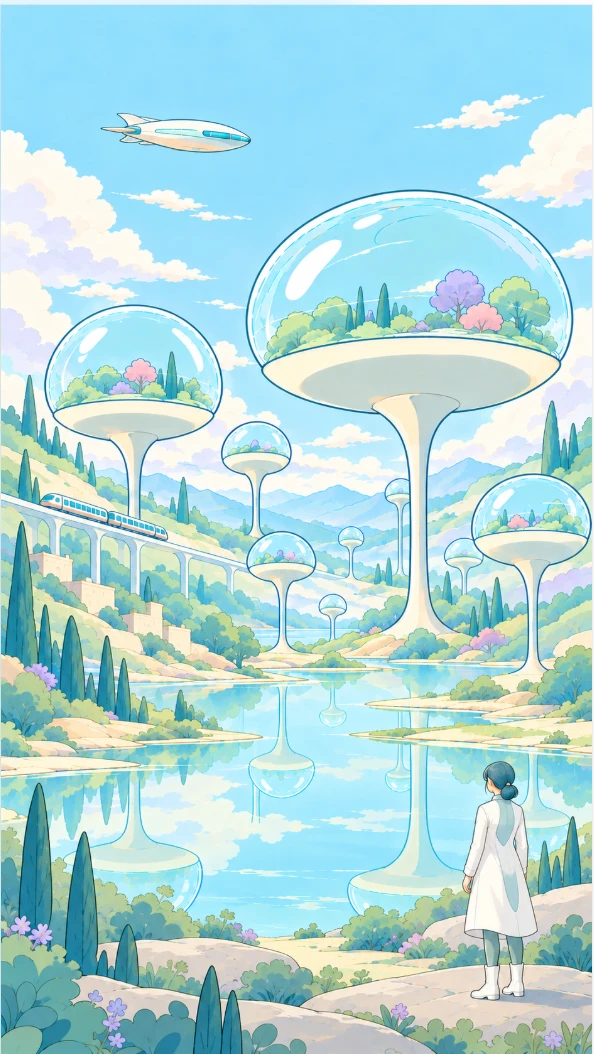
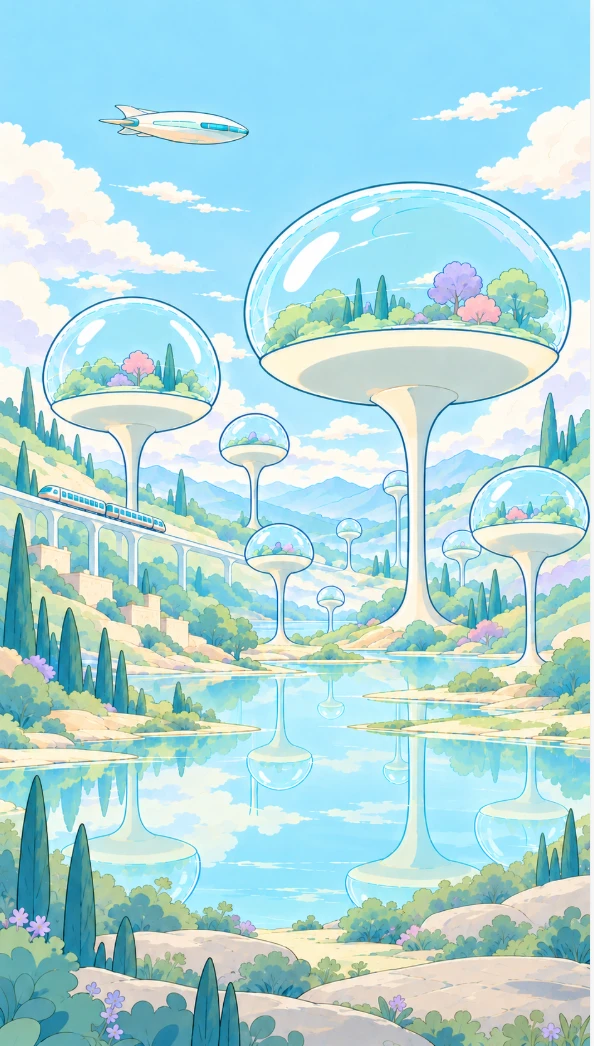
Phone hero picture: version without the figure

diff --git a/site/index.html b/site/index.html
@@ -34,7 +34,7 @@
 </header>
 <main id="main">
 <section class="hero">
-<div class="hero-bg"><picture><source media="(max-width: 820px)" srcset="images/hero_top_sp.webp?v=2" width="592" height="1050"><img src="images/hero_top.webp?v=165" alt="" width="2000" height="862" fetchpriority="high"></picture></div>
+<div class="hero-bg"><picture><source media="(max-width: 820px)" srcset="images/hero_top_sp.webp?v=3" width="592" height="1050"><img src="images/hero_top.webp?v=166" alt="" width="2000" height="862" fetchpriority="high"></picture></div>
 <div class="hero-intro" aria-hidden="true"><div class="hi-veil"></div><div class="hi-logo" data-capsule-intro><svg class="capsule-svg" overflow="visible" xmlns="http://www.w3.org/2000/svg" aria-label="CELLACT ロゴ" viewBox="118 55 1018 1010" role="img"><g id="head" fill="#6A6562" opacity="0"><path fill-rule="evenodd" d="M614.500 299.404C593.595 302.815 574.148 310.279 558.917 325.500C547.951 336.459 539.573 351.218 536.577 366.500C531.408 392.855 541.235 422.026 561.500 439.696C583.686 459.041 615.500 467.342 644.500 461.799C653.610 460.058 661.987 456.874 670.500 453.363C681.140 448.974 692.080 440.503 699.209 431.500C700.604 429.738 702.095 427.979 703.500 426.235C703.963 425.661 705.362 424.373 705.143 423.500C704.989 422.886 702.997 422.074 702.500 421.816C700.784 420.922 699.188 419.739 697.500 418.790C691.801 415.586 686.405 411.592 680.500 408.641C678.773 407.778 676.547 405.323 674.500 405.323C673.904 405.323 673.515 406.125 673.212 406.500C671.794 408.255 670.286 409.958 668.620 411.500C662.950 417.406 655.379 423.301 647.500 425.803C639.167 428.449 630.270 429.788 621.500 428.925C604.023 427.207 587.204 416.659 579.669 400.500C577.201 395.209 575.571 389.411 575.145 383.500C574.573 375.574 576.545 367.824 579.279 360.500C581.065 355.716 585.164 351.185 588.595 347.500C601.299 333.855 621.481 329.236 639.500 332.353C644.290 333.182 649.040 335.465 653.500 337.346C659.000 339.666 665.025 344.887 668.782 349.500C670.109 351.130 671.132 353.212 672.500 354.730C672.995 355.279 673.601 356.539 674.500 356.539C676.203 356.539 678.995 354.021 680.500 353.149C686.572 349.636 692.299 345.309 698.500 342.091C700.237 341.190 701.832 340.067 703.500 339.037C703.998 338.729 704.924 338.290 704.924 337.500C704.924 336.254 702.265 333.752 701.500 332.791C697.797 328.141 693.602 322.764 688.500 319.626C687.427 318.966 686.544 317.754 685.500 316.996C681.149 313.837 676.480 310.553 671.500 308.465C666.204 306.244 661.013 303.824 655.500 302.329C642.185 298.719 628.195 297.941 614.500 299.404Z" /></g><g id="plus" fill="#6A6562" opacity="0"><path fill-rule="evenodd" d="M606.500 480.461C605.179 481.799 606.020 486.700 605.988 488.500C605.886 494.163 606.003 499.836 605.979 505.500C605.969 507.863 606.637 511.304 605.726 513.500C605.436 514.200 603.985 513.661 603.500 513.657C601.517 513.640 599.496 513.684 597.500 513.698C590.832 513.746 584.167 513.687 577.500 513.736C575.728 513.748 572.080 512.980 570.500 513.679C568.798 514.432 569.682 519.915 569.683 521.500C569.689 528.166 569.630 534.834 569.655 541.500C569.662 543.578 568.971 546.856 570.288 548.500C570.606 548.896 572.067 548.665 572.500 548.657C574.835 548.614 577.161 548.647 579.500 548.621C585.832 548.550 592.168 548.520 598.500 548.560C600.218 548.571 603.996 548.027 605.500 548.814C606.100 549.128 605.982 550.019 605.985 550.500C605.995 552.499 606.027 554.500 606.039 556.500C606.073 562.167 605.996 567.833 605.996 573.500C605.996 575.774 605.343 579.401 606.199 581.500C606.478 582.186 607.984 582.004 608.500 582.003C610.833 581.998 613.167 582.045 615.500 582.016C622.837 581.927 630.164 582.014 637.500 581.984C639.532 581.975 644.366 582.825 645.920 581.500C647.156 573.465 645.955 564.639 646.029 556.500C646.048 554.505 646.138 552.492 646.099 550.500C646.087 549.882 645.727 549.180 646.500 548.761C646.654 548.678 648.342 548.684 648.500 548.683C650.501 548.664 652.499 548.559 654.500 548.543C661.165 548.489 667.836 548.628 674.500 548.586C676.230 548.576 682.456 549.632 683.040 547.500C683.658 545.242 683.028 541.863 683.039 539.500C683.067 533.500 683.029 527.500 683.039 521.500C683.041 519.828 683.030 518.163 683.002 516.500C682.989 515.756 683.417 514.387 682.500 513.937C681.718 513.554 680.345 513.794 679.500 513.771C677.167 513.708 674.833 513.797 672.500 513.788C667.167 513.767 661.833 513.750 656.500 513.774C653.249 513.789 649.715 514.145 646.500 513.689C646.081 513.630 646.103 512.920 646.052 512.500C645.822 510.600 646.077 508.426 646.084 506.500C646.111 499.843 646.307 493.154 646.127 486.500C646.097 485.399 646.668 481.124 645.500 480.511C645.202 480.355 642.968 480.693 642.500 480.688C640.166 480.662 637.835 480.621 635.500 480.621C629.170 480.621 622.829 480.543 616.500 480.633C613.287 480.678 609.645 481.155 606.500 480.461Z" /></g><g id="legs" fill="#6A6562" opacity="0"><path fill-rule="evenodd" d="M625.500 593.040C622.872 595.637 620.696 599.368 618.761 602.500C614.608 609.224 609.338 615.812 604.500 622.092C584.744 647.733 567.482 675.273 547.500 700.727C540.717 709.369 534.301 718.476 528.038 727.500C526.403 729.855 524.760 732.219 523.023 734.500C522.226 735.546 521.298 736.124 521.441 737.500C521.501 738.073 523.275 737.875 523.500 737.861C525.813 737.714 528.176 737.837 530.500 737.833C539.834 737.818 549.167 737.811 558.500 737.777C561.642 737.766 565.427 738.357 568.500 737.721C570.234 737.362 572.340 732.916 573.262 731.500C576.607 726.361 580.565 721.515 584.114 716.500C590.461 707.533 597.834 698.939 603.428 689.500C605.735 685.608 609.219 682.329 611.648 678.500C613.339 675.836 616.203 673.259 617.571 670.500C619.100 667.419 621.337 664.360 623.500 661.720C623.713 661.407 625.008 658.998 625.500 658.998C626.264 658.998 627.202 660.930 627.500 661.376C628.829 663.368 630.109 665.420 631.500 667.382C637.340 675.620 642.637 684.209 648.500 692.420C656.367 703.437 663.894 714.617 671.500 725.754C673.240 728.302 675.152 730.860 676.748 733.500C677.390 734.563 678.515 736.984 679.682 737.500C681.596 738.345 684.417 737.849 686.500 737.858C692.167 737.885 697.834 737.776 703.500 737.804C708.828 737.830 714.174 738.020 719.500 737.837C720.541 737.801 724.465 738.374 725.080 737.500C726.044 736.129 725.012 736.559 724.391 735.500C723.185 733.443 721.555 731.598 720.415 729.500C718.480 725.939 715.276 723.030 713.357 719.500C710.683 714.582 706.899 710.236 703.901 705.500C699.347 698.303 693.828 691.668 689.249 684.500C675.102 662.354 658.686 641.585 644.391 619.500C640.033 612.767 635.499 606.118 630.943 599.500C629.727 597.734 627.688 593.058 625.500 593.040Z" /></g><g id="wordmark" fill="#6A6562" opacity="0"><path fill-rule="evenodd" d="M187.500 932.328C180.629 933.749 173.926 935.493 167.563 938.500C162.797 940.752 158.711 944.203 154.654 947.500C133.298 964.856 132.627 1001.721 151.500 1020.906C169.523 1039.227 197.986 1043.474 221.500 1034.127C228.246 1031.445 233.858 1027.561 238.979 1022.500C239.859 1021.631 242.124 1019.797 242.330 1018.500C242.513 1017.347 240.354 1016.095 239.591 1015.500C236.534 1013.113 233.504 1010.682 230.500 1008.227C229.617 1007.506 227.609 1005.265 226.500 1005.801C225.441 1006.313 224.346 1008.109 223.500 1008.944C221.976 1010.449 220.267 1011.941 218.500 1013.147C214.833 1016.469 210.071 1017.840 205.500 1019.146C189.737 1023.649 168.938 1015.826 163.164 999.500C160.486 991.928 159.547 984.477 161.394 976.500C162.044 973.691 163.424 971.180 164.391 968.500C165.379 965.760 167.912 963.588 169.500 961.323C171.393 958.624 174.658 956.480 177.500 954.927C188.945 948.671 201.741 948.518 213.500 954.112C216.856 955.709 221.270 958.483 223.566 961.500C224.207 962.343 226.232 965.578 227.500 965.298C228.440 965.091 229.767 963.384 230.500 962.765C233.422 960.299 236.442 957.946 239.387 955.500C240.073 954.930 242.588 953.559 242.588 952.500C242.588 951.834 240.952 950.413 240.500 949.947C237.993 947.369 235.759 944.205 232.500 942.510C228.759 940.566 225.508 937.679 221.500 936.005C211.082 931.655 198.566 931.123 187.500 932.328ZM908.500 932.399C897.802 934.024 888.205 937.386 879.500 943.869C877.120 945.642 873.842 948.026 872.171 950.500C868.827 955.449 865.252 959.879 863.076 965.500C855.805 984.280 858.646 1008.301 873.500 1022.760C891.649 1040.426 922.310 1043.750 944.976 1033.500C951.046 1030.755 956.730 1027.487 961.500 1022.762C962.454 1021.817 965.331 1019.843 965.610 1018.500C965.969 1016.769 963.713 1015.909 962.500 1014.944C959.720 1012.734 956.832 1010.664 954.030 1008.500C953.055 1007.746 951.688 1006.088 950.500 1005.734C949.429 1005.415 948.504 1006.864 947.861 1007.500C945.852 1009.483 943.734 1011.286 941.500 1012.994C929.378 1022.264 908.953 1023.487 896.500 1014.067C891.829 1010.534 888.554 1006.615 885.789 1001.500C884.265 998.681 882.801 994.691 882.494 991.500C881.531 981.486 883.430 973.163 888.500 964.585C890.230 961.657 893.168 959.780 895.500 957.444C898.411 954.528 902.645 953.084 906.500 951.833C916.216 948.680 927.199 949.672 936.217 954.500C939.271 956.135 942.255 958.166 944.798 960.500C946.370 961.943 947.741 964.150 949.500 965.335C950.737 966.169 952.598 963.963 953.500 963.290C956.913 960.744 960.207 958.056 963.500 955.367C964.100 954.877 966.376 953.440 966.304 952.500C966.255 951.855 963.971 950.056 963.500 949.584C960.848 946.927 958.054 944.674 954.989 942.500C941.787 933.135 924.373 930.218 908.500 932.399ZM306.500 934.500C306.500 934.500 305.347 934.984 305.313 935.500C305.270 936.166 305.407 936.833 305.402 937.500C305.382 940.166 305.356 942.835 305.369 945.500C305.407 953.167 305.330 960.834 305.371 968.500C305.456 984.500 305.307 1000.501 305.393 1016.500C305.427 1022.743 304.806 1029.320 305.287 1035.500C305.355 1036.380 306.937 1036.447 307.500 1036.458C309.493 1036.498 311.504 1036.395 313.500 1036.395C322.167 1036.395 330.833 1036.389 339.500 1036.389C352.500 1036.389 365.500 1036.378 378.500 1036.378C381.834 1036.378 385.166 1036.408 388.500 1036.459C389.478 1036.474 391.658 1036.943 392.500 1036.239C393.381 1035.502 392.872 1033.451 392.842 1032.500C392.728 1028.836 392.931 1025.163 392.862 1021.500C392.840 1020.332 393.124 1018.496 391.500 1018.317C386.300 1017.744 380.732 1018.275 375.500 1018.307C365.501 1018.369 355.499 1018.234 345.500 1018.234C341.503 1018.234 337.500 1018.406 333.500 1018.355C332.240 1018.339 329.624 1018.795 328.500 1018.285C327.017 1017.612 327.613 1014.755 327.599 1013.500C327.543 1008.501 327.596 1003.498 327.641 998.500C327.652 997.215 327.043 994.327 328.500 993.630C329.590 993.109 332.278 993.592 333.500 993.619C336.494 993.686 339.502 993.594 342.500 993.629C356.704 993.629 371.346 994.649 385.500 993.519C386.469 993.441 386.033 990.065 386.031 989.500C386.017 986.165 385.994 982.831 386.031 979.500C386.039 978.719 386.533 976.451 385.500 976.052C384.430 975.637 382.637 975.989 381.500 975.995C378.499 976.010 375.500 976.067 372.500 976.067C362.167 976.067 351.833 976.031 341.500 976.060C338.167 976.070 334.832 976.182 331.500 976.133C330.492 976.118 328.244 976.603 327.645 975.500C327.201 974.683 327.611 972.440 327.604 971.500C327.583 968.498 327.621 965.501 327.665 962.500C327.694 960.505 327.790 958.494 327.738 956.500C327.716 955.682 327.380 954.278 327.711 953.500C328.361 951.977 330.148 952.601 331.500 952.557C335.497 952.426 339.500 952.468 343.500 952.424C354.833 952.301 366.168 952.478 377.500 952.478C380.834 952.478 384.166 952.446 387.500 952.442C388.519 952.441 390.578 952.837 391.500 952.441C393.141 951.735 392.578 949.909 392.583 948.500C392.594 945.500 392.596 942.500 392.596 939.500C392.596 938.573 393.008 936.295 392.482 935.500C391.231 933.606 388.556 934.452 386.500 934.417C381.498 934.332 376.501 934.414 371.500 934.414C349.921 934.414 328.020 933.367 306.500 934.500ZM456.500 934.445C455.420 935.461 455.967 938.157 455.964 939.500C455.954 944.500 455.900 949.499 455.909 954.500C455.943 974.167 455.920 993.833 455.920 1013.500C455.920 1019.167 455.874 1024.833 455.888 1030.500C455.891 1031.730 455.290 1035.623 456.500 1036.330C457.739 1037.053 461.068 1036.381 462.500 1036.382C467.165 1036.386 471.834 1036.409 476.500 1036.409C494.457 1036.409 512.571 1035.787 530.500 1036.504C531.308 1036.343 531.841 1036.414 532.228 1035.500C532.630 1034.553 532.221 1032.543 532.236 1031.500C532.278 1028.521 532.413 1025.474 532.270 1022.500C532.207 1021.184 532.805 1018.430 531.500 1017.718C530.648 1017.254 529.402 1017.649 528.500 1017.639C525.837 1017.608 523.166 1017.607 520.500 1017.580C510.500 1017.476 500.500 1017.568 490.500 1017.517C487.833 1017.504 485.169 1017.608 482.500 1017.581C481.250 1017.569 479.585 1017.849 478.500 1017.023C477.605 1016.342 478.195 1012.556 478.195 1011.500C478.195 1006.167 478.178 1000.833 478.178 995.500C478.178 980.500 478.197 965.500 478.178 950.500C478.173 946.833 478.174 943.167 478.184 939.500C478.188 937.882 478.657 935.827 477.704 934.500C477.264 933.887 473.306 934.351 472.500 934.331C467.190 934.203 461.814 934.382 456.500 934.445ZM591.500 934.303C589.418 935.508 590.257 938.376 590.278 940.500C590.331 945.832 590.244 951.167 590.267 956.500C590.351 976.498 590.076 996.504 590.275 1016.500C590.325 1021.501 590.057 1026.500 590.230 1031.500C590.263 1032.431 589.755 1035.341 590.500 1035.934C591.692 1036.884 593.058 1036.377 594.500 1036.384C597.500 1036.399 600.500 1036.428 603.500 1036.427C615.499 1036.423 627.501 1036.352 639.500 1036.409C645.166 1036.436 650.834 1036.449 656.500 1036.451C658.167 1036.452 659.833 1036.451 661.500 1036.430C662.500 1036.417 664.500 1036.500 664.500 1036.500C664.500 1036.500 665.657 1036.027 665.766 1035.500C665.970 1034.522 665.611 1033.506 665.709 1032.500C666.030 1029.192 665.607 1025.800 665.724 1022.500C665.768 1021.247 666.688 1017.469 664.500 1017.469C651.506 1017.469 638.500 1017.595 625.500 1017.528C622.500 1017.512 619.500 1017.569 616.500 1017.552C615.053 1017.543 613.350 1018.230 612.864 1016.500C612.372 1014.752 612.742 1012.313 612.740 1010.500C612.734 1006.167 612.776 1001.833 612.776 997.500C612.776 983.500 612.810 969.500 612.810 955.500C612.810 950.500 612.760 945.500 612.760 940.500C612.760 939.282 613.384 935.717 612.500 934.879C611.300 933.742 608.034 934.296 606.500 934.302C601.561 934.324 596.412 934.829 591.500 934.303ZM756.500 934.440C752.311 939.840 748.638 945.832 744.733 951.500C730.796 971.728 717.186 992.388 702.500 1012.081C698.118 1017.957 693.564 1024.220 689.796 1030.500C688.849 1032.078 685.415 1034.779 687.122 1036.500C687.544 1036.925 691.136 1036.491 691.833 1036.500C696.713 1036.562 701.614 1036.403 706.500 1036.431C708.166 1036.440 709.834 1036.449 711.500 1036.479C711.904 1036.486 712.319 1036.837 712.633 1036.500C716.878 1031.957 720.017 1025.971 723.500 1020.808C728.450 1013.471 734.045 1006.324 738.500 998.700C739.968 996.188 742.206 994.030 743.566 991.500C745.082 988.679 747.168 986.148 748.961 983.500C751.439 979.840 753.590 975.631 756.500 972.320C758.051 972.019 758.870 974.199 759.711 975.500C762.104 979.207 764.553 982.876 767.054 986.500C775.775 999.134 784.176 1011.922 792.944 1024.500C794.786 1027.143 796.593 1029.823 798.395 1032.500C798.982 1033.372 799.634 1035.293 800.500 1035.893C801.721 1036.739 802.204 1036.421 803.500 1036.358C809.449 1036.067 815.532 1036.457 821.500 1036.479C823.169 1036.485 824.836 1036.414 826.500 1036.428C826.856 1036.431 827.411 1036.821 827.567 1036.500C828.244 1035.105 826.849 1033.753 825.976 1032.500C823.547 1029.015 820.814 1025.681 818.500 1022.125C812.020 1012.168 804.376 1002.854 798.629 992.500C796.066 987.881 791.866 984.075 789.199 979.500C784.521 971.473 778.346 964.266 773.242 956.500C770.491 952.314 767.910 947.425 764.500 943.776C762.488 941.623 761.446 938.562 759.500 936.327C758.474 935.149 758.116 933.625 756.500 934.440ZM1017.500 934.360C1015.477 934.836 1016.150 936.786 1016.150 938.500C1016.152 941.835 1016.071 945.166 1016.109 948.500C1016.119 949.380 1015.621 951.833 1016.500 952.429C1016.672 952.545 1018.262 952.499 1018.500 952.504C1020.501 952.553 1022.499 952.535 1024.500 952.543C1031.500 952.570 1038.501 952.731 1045.500 952.564C1047.518 952.516 1049.489 952.583 1051.500 952.620C1052.538 952.639 1053.652 952.088 1053.957 953.500C1054.343 955.289 1053.903 957.649 1053.915 959.500C1053.944 964.167 1053.872 968.833 1053.872 973.500C1053.872 987.833 1053.890 1002.167 1053.890 1016.500C1053.890 1020.834 1053.833 1025.166 1053.833 1029.500C1053.833 1031.214 1053.393 1033.882 1053.893 1035.500C1054.393 1037.122 1057.207 1036.455 1058.500 1036.469C1062.823 1036.514 1067.182 1036.224 1071.500 1036.429C1072.802 1036.491 1075.556 1037.212 1076.056 1035.500C1076.951 1032.434 1076.053 1027.721 1076.075 1024.500C1076.133 1016.168 1076.100 1007.833 1076.071 999.500C1076.071 987.500 1076.005 975.499 1076.075 963.500C1076.090 960.833 1076.120 958.165 1076.123 955.500C1076.124 954.843 1075.733 953.133 1076.500 952.684C1076.599 952.626 1078.402 952.718 1078.500 952.716C1080.498 952.685 1082.500 952.576 1084.500 952.539C1091.503 952.409 1098.497 952.567 1105.500 952.567C1107.832 952.567 1110.169 952.519 1112.500 952.567C1113.622 952.590 1114.805 952.793 1115.361 951.500C1115.746 950.606 1115.310 948.502 1115.323 947.500C1115.362 944.501 1115.338 941.500 1115.362 938.500C1115.369 937.743 1115.923 934.470 1114.500 934.447C1094.867 934.119 1075.155 934.402 1055.500 934.402C1042.873 934.402 1030.104 933.878 1017.500 934.360Z" /></g><defs><clipPath id="clip_top"><rect x="0" y="0" width="1254" height="533.5" /></clipPath><clipPath id="clip_bottom"><rect x="0" y="533.5" width="1254" height="800" /></clipPath></defs><g id="shell_top" transform="translate(0 -66)" opacity="0"><g clip-path="url(#clip_top)"><g fill="#6A6562"><path fill-rule="evenodd" d="M623.500 153.449C606.954 162.665 591.012 173.033 574.500 182.304C568.395 185.732 562.643 189.802 556.500 193.127C547.242 198.137 538.777 204.347 529.500 209.300C526.052 211.141 522.999 213.936 519.500 215.633C509.793 220.340 500.942 227.023 491.500 232.253C476.906 240.337 463.152 250.124 448.500 258.198C445.415 259.898 442.576 262.204 439.500 263.885C423.505 272.627 408.291 282.855 392.500 291.885C389.418 293.648 386.607 295.950 383.500 297.657C369.884 305.138 357.136 314.360 343.500 321.932C336.495 325.822 329.244 329.902 322.669 334.500C318.628 337.327 313.827 340.325 309.394 342.500C306.543 343.899 303.930 345.372 302.798 348.500C301.783 351.305 302.322 354.556 302.322 357.500C302.322 362.833 302.324 368.167 302.324 373.500C302.324 392.833 302.404 412.169 302.404 431.500C302.404 496.165 302.372 560.833 302.372 625.500C302.372 646.833 302.362 668.166 302.362 689.500C302.362 694.833 302.353 700.167 302.381 705.500C302.398 708.804 302.023 711.647 303.909 714.500C305.067 716.251 307.710 717.302 309.500 718.238C312.279 719.690 314.774 721.740 317.500 723.312C328.962 729.923 339.649 738.333 351.500 744.271C356.721 746.887 361.415 750.976 366.500 753.868C380.130 761.621 393.081 770.601 406.500 778.750C423.313 788.959 439.778 799.682 456.500 810.021C466.812 816.397 477.323 822.593 487.500 829.183C497.072 835.381 506.669 841.466 516.500 847.239C525.297 852.404 533.604 858.416 542.500 863.407C558.889 872.602 573.965 884.230 590.500 893.277C598.712 897.769 606.388 903.443 614.500 908.170C619.782 911.249 623.987 914.424 630.500 912.994C633.119 912.200 635.174 910.547 637.500 909.146C641.483 906.746 645.631 904.524 649.500 901.951C651.645 900.524 654.110 898.454 656.500 897.497C658.301 896.775 659.794 895.345 661.500 894.398C666.960 891.369 671.970 887.329 677.500 884.471C687.430 879.338 697.215 872.830 706.500 866.563C715.830 860.265 725.801 854.567 735.500 848.771C745.283 842.924 754.558 836.238 764.500 830.633C774.433 825.032 783.495 817.769 793.500 812.290C802.742 807.228 811.186 800.691 820.500 795.758C822.258 794.827 823.734 793.275 825.500 792.363C831.070 789.488 836.022 785.439 841.500 782.474C851.137 777.258 860.205 770.848 869.500 765.115C882.159 757.307 894.573 748.873 907.500 741.551C914.575 737.544 921.128 731.739 928.500 728.341C933.096 726.222 937.039 722.689 941.500 720.288C944.555 718.644 949.072 716.762 950.731 713.500C952.135 710.738 951.618 707.537 951.633 704.500C951.663 698.837 951.662 693.163 951.602 687.500C951.377 666.507 951.633 645.494 951.633 624.500C951.633 559.499 951.653 494.500 951.653 429.500C951.653 410.835 951.653 392.167 951.653 373.500C951.653 368.167 951.617 362.833 951.643 357.500C951.660 354.061 951.991 350.739 950.629 347.500C949.727 345.353 947.740 344.798 946.129 343.500C943.868 341.680 941.007 340.436 938.500 338.897C931.542 334.626 924.625 330.071 917.500 326.115C913.193 323.724 908.470 321.193 904.500 318.368C891.849 309.366 877.619 302.508 864.500 294.233C859.238 290.915 854.009 287.389 848.500 284.500C845.756 283.061 843.307 280.986 840.500 279.737C837.619 278.454 834.797 276.148 832.072 274.500C825.597 270.583 819.187 266.335 812.500 262.809C798.791 255.582 786.263 245.916 772.500 238.762C768.374 236.617 764.803 233.440 760.500 231.633C757.634 230.430 755.337 227.670 752.500 226.378C746.507 223.650 741.171 219.379 735.500 216.106C726.820 211.096 718.337 205.467 709.500 200.768C705.385 198.579 701.692 195.636 697.500 193.554C691.706 190.677 686.515 186.265 680.593 183.500C674.322 180.572 668.643 175.890 662.500 172.650C655.030 168.710 648.170 163.526 640.715 159.500C637.701 157.872 634.755 155.140 631.500 154.032C628.844 153.127 626.226 153.466 623.500 153.449ZM626.500 198.064C628.991 198.202 631.427 200.569 633.500 201.830C636.801 203.838 640.099 205.913 643.500 207.761C659.269 216.329 673.932 226.842 689.500 235.754C699.959 241.742 709.914 248.908 720.500 254.629C734.185 262.025 746.979 271.024 760.500 278.765C788.881 295.016 816.290 313.013 844.500 329.504C855.932 336.188 867.027 343.477 878.500 350.109C883.847 353.201 889.003 356.988 894.500 359.805C898.329 361.767 902.283 364.097 905.857 366.500C906.531 366.954 909.267 368.077 909.500 368.724C909.958 369.996 909.739 371.186 909.778 372.500C909.888 376.163 909.728 379.831 909.767 383.500C909.899 395.831 909.823 408.168 909.823 420.500C909.823 461.485 909.195 502.522 909.810 543.500C910.370 580.823 909.522 618.171 909.810 655.500C909.882 664.834 909.774 674.166 909.846 683.500C909.864 685.832 909.959 688.203 909.788 690.500C909.751 691.001 909.940 692.097 909.418 692.500C903.139 697.355 895.400 701.389 888.500 705.234C874.801 712.866 862.373 722.827 848.500 730.176C843.286 732.939 838.759 737.013 833.500 739.719C827.953 742.572 822.830 746.442 817.500 749.712C804.768 757.522 792.401 765.960 779.500 773.532C774.259 776.609 768.758 779.839 763.900 783.500C756.966 788.725 748.702 792.299 741.700 797.500C736.737 801.187 730.596 803.555 725.833 807.500C724.062 808.967 721.502 810.102 719.500 811.301C714.788 814.122 710.143 817.128 705.500 820.051C694.197 827.167 683.001 834.377 671.500 841.193C668.128 843.192 664.983 846.058 661.500 847.728C655.167 850.766 649.574 855.379 643.500 858.900C638.121 862.018 632.463 865.341 627.500 869.039C624.645 869.100 620.896 865.530 618.500 864.014C612.906 860.472 607.334 856.810 601.500 853.639C599.762 852.695 598.267 851.183 596.500 850.270C586.384 845.042 577.309 837.929 567.500 832.195C549.544 821.698 531.926 810.458 514.500 799.098C503.316 791.806 491.913 784.768 480.500 777.797C472.747 773.061 465.324 767.732 457.500 763.194C450.091 758.896 442.409 754.341 435.357 749.500C428.321 744.670 420.992 739.784 413.500 735.689C409.336 733.413 405.645 730.265 401.500 727.949C392.433 722.885 383.878 716.814 374.932 711.500C371.095 709.221 367.503 706.173 363.500 704.208C359.156 702.077 355.043 699.169 350.956 696.500C348.870 695.138 346.536 694.123 344.630 692.500C343.772 691.769 344.289 689.503 344.273 688.500C344.199 683.835 344.230 679.166 344.230 674.500C344.230 655.833 344.236 637.167 344.236 618.500C344.236 558.500 344.202 498.500 344.202 438.500C344.202 421.833 344.175 405.166 344.175 388.500C344.175 383.835 344.156 379.163 344.193 374.500C344.205 372.924 343.740 370.454 344.500 369.039C345.420 367.326 348.409 366.524 349.989 365.500C355.070 362.206 360.283 359.083 365.500 356.025C383.965 345.201 402.415 334.218 420.500 322.774C443.219 308.397 466.930 295.705 489.500 280.993C496.615 276.355 504.051 271.872 511.500 267.715C514.891 265.822 518.024 263.455 521.500 261.731C526.723 259.141 531.206 255.079 536.500 252.622C539.249 251.346 541.922 249.244 544.500 247.626C551.055 243.514 557.710 239.120 564.500 235.459C569.603 232.708 574.296 228.863 579.500 226.335C585.149 223.591 590.108 219.476 595.640 216.500C606.168 210.837 616.110 203.898 626.500 198.064Z" /></g></g></g><g id="shell_bottom" transform="translate(0 66)" opacity="0"><g clip-path="url(#clip_bottom)"><g fill="#6A6562"><path fill-rule="evenodd" d="M623.500 153.449C606.954 162.665 591.012 173.033 574.500 182.304C568.395 185.732 562.643 189.802 556.500 193.127C547.242 198.137 538.777 204.347 529.500 209.300C526.052 211.141 522.999 213.936 519.500 215.633C509.793 220.340 500.942 227.023 491.500 232.253C476.906 240.337 463.152 250.124 448.500 258.198C445.415 259.898 442.576 262.204 439.500 263.885C423.505 272.627 408.291 282.855 392.500 291.885C389.418 293.648 386.607 295.950 383.500 297.657C369.884 305.138 357.136 314.360 343.500 321.932C336.495 325.822 329.244 329.902 322.669 334.500C318.628 337.327 313.827 340.325 309.394 342.500C306.543 343.899 303.930 345.372 302.798 348.500C301.783 351.305 302.322 354.556 302.322 357.500C302.322 362.833 302.324 368.167 302.324 373.500C302.324 392.833 302.404 412.169 302.404 431.500C302.404 496.165 302.372 560.833 302.372 625.500C302.372 646.833 302.362 668.166 302.362 689.500C302.362 694.833 302.353 700.167 302.381 705.500C302.398 708.804 302.023 711.647 303.909 714.500C305.067 716.251 307.710 717.302 309.500 718.238C312.279 719.690 314.774 721.740 317.500 723.312C328.962 729.923 339.649 738.333 351.500 744.271C356.721 746.887 361.415 750.976 366.500 753.868C380.130 761.621 393.081 770.601 406.500 778.750C423.313 788.959 439.778 799.682 456.500 810.021C466.812 816.397 477.323 822.593 487.500 829.183C497.072 835.381 506.669 841.466 516.500 847.239C525.297 852.404 533.604 858.416 542.500 863.407C558.889 872.602 573.965 884.230 590.500 893.277C598.712 897.769 606.388 903.443 614.500 908.170C619.782 911.249 623.987 914.424 630.500 912.994C633.119 912.200 635.174 910.547 637.500 909.146C641.483 906.746 645.631 904.524 649.500 901.951C651.645 900.524 654.110 898.454 656.500 897.497C658.301 896.775 659.794 895.345 661.500 894.398C666.960 891.369 671.970 887.329 677.500 884.471C687.430 879.338 697.215 872.830 706.500 866.563C715.830 860.265 725.801 854.567 735.500 848.771C745.283 842.924 754.558 836.238 764.500 830.633C774.433 825.032 783.495 817.769 793.500 812.290C802.742 807.228 811.186 800.691 820.500 795.758C822.258 794.827 823.734 793.275 825.500 792.363C831.070 789.488 836.022 785.439 841.500 782.474C851.137 777.258 860.205 770.848 869.500 765.115C882.159 757.307 894.573 748.873 907.500 741.551C914.575 737.544 921.128 731.739 928.500 728.341C933.096 726.222 937.039 722.689 941.500 720.288C944.555 718.644 949.072 716.762 950.731 713.500C952.135 710.738 951.618 707.537 951.633 704.500C951.663 698.837 951.662 693.163 951.602 687.500C951.377 666.507 951.633 645.494 951.633 624.500C951.633 559.499 951.653 494.500 951.653 429.500C951.653 410.835 951.653 392.167 951.653 373.500C951.653 368.167 951.617 362.833 951.643 357.500C951.660 354.061 951.991 350.739 950.629 347.500C949.727 345.353 947.740 344.798 946.129 343.500C943.868 341.680 941.007 340.436 938.500 338.897C931.542 334.626 924.625 330.071 917.500 326.115C913.193 323.724 908.470 321.193 904.500 318.368C891.849 309.366 877.619 302.508 864.500 294.233C859.238 290.915 854.009 287.389 848.500 284.500C845.756 283.061 843.307 280.986 840.500 279.737C837.619 278.454 834.797 276.148 832.072 274.500C825.597 270.583 819.187 266.335 812.500 262.809C798.791 255.582 786.263 245.916 772.500 238.762C768.374 236.617 764.803 233.440 760.500 231.633C757.634 230.430 755.337 227.670 752.500 226.378C746.507 223.650 741.171 219.379 735.500 216.106C726.820 211.096 718.337 205.467 709.500 200.768C705.385 198.579 701.692 195.636 697.500 193.554C691.706 190.677 686.515 186.265 680.593 183.500C674.322 180.572 668.643 175.890 662.500 172.650C655.030 168.710 648.170 163.526 640.715 159.500C637.701 157.872 634.755 155.140 631.500 154.032C628.844 153.127 626.226 153.466 623.500 153.449ZM626.500 198.064C628.991 198.202 631.427 200.569 633.500 201.830C636.801 203.838 640.099 205.913 643.500 207.761C659.269 216.329 673.932 226.842 689.500 235.754C699.959 241.742 709.914 248.908 720.500 254.629C734.185 262.025 746.979 271.024 760.500 278.765C788.881 295.016 816.290 313.013 844.500 329.504C855.932 336.188 867.027 343.477 878.500 350.109C883.847 353.201 889.003 356.988 894.500 359.805C898.329 361.767 902.283 364.097 905.857 366.500C906.531 366.954 909.267 368.077 909.500 368.724C909.958 369.996 909.739 371.186 909.778 372.500C909.888 376.163 909.728 379.831 909.767 383.500C909.899 395.831 909.823 408.168 909.823 420.500C909.823 461.485 909.195 502.522 909.810 543.500C910.370 580.823 909.522 618.171 909.810 655.500C909.882 664.834 909.774 674.166 909.846 683.500C909.864 685.832 909.959 688.203 909.788 690.500C909.751 691.001 909.940 692.097 909.418 692.500C903.139 697.355 895.400 701.389 888.500 705.234C874.801 712.866 862.373 722.827 848.500 730.176C843.286 732.939 838.759 737.013 833.500 739.719C827.953 742.572 822.830 746.442 817.500 749.712C804.768 757.522 792.401 765.960 779.500 773.532C774.259 776.609 768.758 779.839 763.900 783.500C756.966 788.725 748.702 792.299 741.700 797.500C736.737 801.187 730.596 803.555 725.833 807.500C724.062 808.967 721.502 810.102 719.500 811.301C714.788 814.122 710.143 817.128 705.500 820.051C694.197 827.167 683.001 834.377 671.500 841.193C668.128 843.192 664.983 846.058 661.500 847.728C655.167 850.766 649.574 855.379 643.500 858.900C638.121 862.018 632.463 865.341 627.500 869.039C624.645 869.100 620.896 865.530 618.500 864.014C612.906 860.472 607.334 856.810 601.500 853.639C599.762 852.695 598.267 851.183 596.500 850.270C586.384 845.042 577.309 837.929 567.500 832.195C549.544 821.698 531.926 810.458 514.500 799.098C503.316 791.806 491.913 784.768 480.500 777.797C472.747 773.061 465.324 767.732 457.500 763.194C450.091 758.896 442.409 754.341 435.357 749.500C428.321 744.670 420.992 739.784 413.500 735.689C409.336 733.413 405.645 730.265 401.500 727.949C392.433 722.885 383.878 716.814 374.932 711.500C371.095 709.221 367.503 706.173 363.500 704.208C359.156 702.077 355.043 699.169 350.956 696.500C348.870 695.138 346.536 694.123 344.630 692.500C343.772 691.769 344.289 689.503 344.273 688.500C344.199 683.835 344.230 679.166 344.230 674.500C344.230 655.833 344.236 637.167 344.236 618.500C344.236 558.500 344.202 498.500 344.202 438.500C344.202 421.833 344.175 405.166 344.175 388.500C344.175 383.835 344.156 379.163 344.193 374.500C344.205 372.924 343.740 370.454 344.500 369.039C345.420 367.326 348.409 366.524 349.989 365.500C355.070 362.206 360.283 359.083 365.500 356.025C383.965 345.201 402.415 334.218 420.500 322.774C443.219 308.397 466.930 295.705 489.500 280.993C496.615 276.355 504.051 271.872 511.500 267.715C514.891 265.822 518.024 263.455 521.500 261.731C526.723 259.141 531.206 255.079 536.500 252.622C539.249 251.346 541.922 249.244 544.500 247.626C551.055 243.514 557.710 239.120 564.500 235.459C569.603 232.708 574.296 228.863 579.500 226.335C585.149 223.591 590.108 219.476 595.640 216.500C606.168 210.837 616.110 203.898 626.500 198.064Z" /></g></g></g><g id="shell_exact" fill="#6A6562" opacity="0"><path fill-rule="evenodd" d="M623.500 153.449C606.954 162.665 591.012 173.033 574.500 182.304C568.395 185.732 562.643 189.802 556.500 193.127C547.242 198.137 538.777 204.347 529.500 209.300C526.052 211.141 522.999 213.936 519.500 215.633C509.793 220.340 500.942 227.023 491.500 232.253C476.906 240.337 463.152 250.124 448.500 258.198C445.415 259.898 442.576 262.204 439.500 263.885C423.505 272.627 408.291 282.855 392.500 291.885C389.418 293.648 386.607 295.950 383.500 297.657C369.884 305.138 357.136 314.360 343.500 321.932C336.495 325.822 329.244 329.902 322.669 334.500C318.628 337.327 313.827 340.325 309.394 342.500C306.543 343.899 303.930 345.372 302.798 348.500C301.783 351.305 302.322 354.556 302.322 357.500C302.322 362.833 302.324 368.167 302.324 373.500C302.324 392.833 302.404 412.169 302.404 431.500C302.404 496.165 302.372 560.833 302.372 625.500C302.372 646.833 302.362 668.166 302.362 689.500C302.362 694.833 302.353 700.167 302.381 705.500C302.398 708.804 302.023 711.647 303.909 714.500C305.067 716.251 307.710 717.302 309.500 718.238C312.279 719.690 314.774 721.740 317.500 723.312C328.962 729.923 339.649 738.333 351.500 744.271C356.721 746.887 361.415 750.976 366.500 753.868C380.130 761.621 393.081 770.601 406.500 778.750C423.313 788.959 439.778 799.682 456.500 810.021C466.812 816.397 477.323 822.593 487.500 829.183C497.072 835.381 506.669 841.466 516.500 847.239C525.297 852.404 533.604 858.416 542.500 863.407C558.889 872.602 573.965 884.230 590.500 893.277C598.712 897.769 606.388 903.443 614.500 908.170C619.782 911.249 623.987 914.424 630.500 912.994C633.119 912.200 635.174 910.547 637.500 909.146C641.483 906.746 645.631 904.524 649.500 901.951C651.645 900.524 654.110 898.454 656.500 897.497C658.301 896.775 659.794 895.345 661.500 894.398C666.960 891.369 671.970 887.329 677.500 884.471C687.430 879.338 697.215 872.830 706.500 866.563C715.830 860.265 725.801 854.567 735.500 848.771C745.283 842.924 754.558 836.238 764.500 830.633C774.433 825.032 783.495 817.769 793.500 812.290C802.742 807.228 811.186 800.691 820.500 795.758C822.258 794.827 823.734 793.275 825.500 792.363C831.070 789.488 836.022 785.439 841.500 782.474C851.137 777.258 860.205 770.848 869.500 765.115C882.159 757.307 894.573 748.873 907.500 741.551C914.575 737.544 921.128 731.739 928.500 728.341C933.096 726.222 937.039 722.689 941.500 720.288C944.555 718.644 949.072 716.762 950.731 713.500C952.135 710.738 951.618 707.537 951.633 704.500C951.663 698.837 951.662 693.163 951.602 687.500C951.377 666.507 951.633 645.494 951.633 624.500C951.633 559.499 951.653 494.500 951.653 429.500C951.653 410.835 951.653 392.167 951.653 373.500C951.653 368.167 951.617 362.833 951.643 357.500C951.660 354.061 951.991 350.739 950.629 347.500C949.727 345.353 947.740 344.798 946.129 343.500C943.868 341.680 941.007 340.436 938.500 338.897C931.542 334.626 924.625 330.071 917.500 326.115C913.193 323.724 908.470 321.193 904.500 318.368C891.849 309.366 877.619 302.508 864.500 294.233C859.238 290.915 854.009 287.389 848.500 284.500C845.756 283.061 843.307 280.986 840.500 279.737C837.619 278.454 834.797 276.148 832.072 274.500C825.597 270.583 819.187 266.335 812.500 262.809C798.791 255.582 786.263 245.916 772.500 238.762C768.374 236.617 764.803 233.440 760.500 231.633C757.634 230.430 755.337 227.670 752.500 226.378C746.507 223.650 741.171 219.379 735.500 216.106C726.820 211.096 718.337 205.467 709.500 200.768C705.385 198.579 701.692 195.636 697.500 193.554C691.706 190.677 686.515 186.265 680.593 183.500C674.322 180.572 668.643 175.890 662.500 172.650C655.030 168.710 648.170 163.526 640.715 159.500C637.701 157.872 634.755 155.140 631.500 154.032C628.844 153.127 626.226 153.466 623.500 153.449ZM626.500 198.064C628.991 198.202 631.427 200.569 633.500 201.830C636.801 203.838 640.099 205.913 643.500 207.761C659.269 216.329 673.932 226.842 689.500 235.754C699.959 241.742 709.914 248.908 720.500 254.629C734.185 262.025 746.979 271.024 760.500 278.765C788.881 295.016 816.290 313.013 844.500 329.504C855.932 336.188 867.027 343.477 878.500 350.109C883.847 353.201 889.003 356.988 894.500 359.805C898.329 361.767 902.283 364.097 905.857 366.500C906.531 366.954 909.267 368.077 909.500 368.724C909.958 369.996 909.739 371.186 909.778 372.500C909.888 376.163 909.728 379.831 909.767 383.500C909.899 395.831 909.823 408.168 909.823 420.500C909.823 461.485 909.195 502.522 909.810 543.500C910.370 580.823 909.522 618.171 909.810 655.500C909.882 664.834 909.774 674.166 909.846 683.500C909.864 685.832 909.959 688.203 909.788 690.500C909.751 691.001 909.940 692.097 909.418 692.500C903.139 697.355 895.400 701.389 888.500 705.234C874.801 712.866 862.373 722.827 848.500 730.176C843.286 732.939 838.759 737.013 833.500 739.719C827.953 742.572 822.830 746.442 817.500 749.712C804.768 757.522 792.401 765.960 779.500 773.532C774.259 776.609 768.758 779.839 763.900 783.500C756.966 788.725 748.702 792.299 741.700 797.500C736.737 801.187 730.596 803.555 725.833 807.500C724.062 808.967 721.502 810.102 719.500 811.301C714.788 814.122 710.143 817.128 705.500 820.051C694.197 827.167 683.001 834.377 671.500 841.193C668.128 843.192 664.983 846.058 661.500 847.728C655.167 850.766 649.574 855.379 643.500 858.900C638.121 862.018 632.463 865.341 627.500 869.039C624.645 869.100 620.896 865.530 618.500 864.014C612.906 860.472 607.334 856.810 601.500 853.639C599.762 852.695 598.267 851.183 596.500 850.270C586.384 845.042 577.309 837.929 567.500 832.195C549.544 821.698 531.926 810.458 514.500 799.098C503.316 791.806 491.913 784.768 480.500 777.797C472.747 773.061 465.324 767.732 457.500 763.194C450.091 758.896 442.409 754.341 435.357 749.500C428.321 744.670 420.992 739.784 413.500 735.689C409.336 733.413 405.645 730.265 401.500 727.949C392.433 722.885 383.878 716.814 374.932 711.500C371.095 709.221 367.503 706.173 363.500 704.208C359.156 702.077 355.043 699.169 350.956 696.500C348.870 695.138 346.536 694.123 344.630 692.500C343.772 691.769 344.289 689.503 344.273 688.500C344.199 683.835 344.230 679.166 344.230 674.500C344.230 655.833 344.236 637.167 344.236 618.500C344.236 558.500 344.202 498.500 344.202 438.500C344.202 421.833 344.175 405.166 344.175 388.500C344.175 383.835 344.156 379.163 344.193 374.500C344.205 372.924 343.740 370.454 344.500 369.039C345.420 367.326 348.409 366.524 349.989 365.500C355.070 362.206 360.283 359.083 365.500 356.025C383.965 345.201 402.415 334.218 420.500 322.774C443.219 308.397 466.930 295.705 489.500 280.993C496.615 276.355 504.051 271.872 511.500 267.715C514.891 265.822 518.024 263.455 521.500 261.731C526.723 259.141 531.206 255.079 536.500 252.622C539.249 251.346 541.922 249.244 544.500 247.626C551.055 243.514 557.710 239.120 564.500 235.459C569.603 232.708 574.296 228.863 579.500 226.335C585.149 223.591 590.108 219.476 595.640 216.500C606.168 210.837 616.110 203.898 626.500 198.064Z" /></g></svg></div><button type="button" class="hi-skip">スキップ</button></div>
 <div class="container hero-inner">
 <p class="hero-eyebrow">CELLACT / REGENERATIVE MEDICINE</p>

diff --git a/tools/build.py b/tools/build.py
@@ -201,7 +201,7 @@ def build_index():
     s += header('index.html')
     s += f'''<main id="main">
 <section class="hero">
-<div class="hero-bg"><picture><source media="(max-width: 820px)" srcset="images/hero_top_sp.webp?v=2" width="592" height="1050"><img src="images/hero_top.webp?v=165" alt="" width="2000" height="862" fetchpriority="high"></picture></div>
+<div class="hero-bg"><picture><source media="(max-width: 820px)" srcset="images/hero_top_sp.webp?v=3" width="592" height="1050"><img src="images/hero_top.webp?v=166" alt="" width="2000" height="862" fetchpriority="high"></picture></div>
 <div class="hero-intro" aria-hidden="true"><div class="hi-veil"></div><div class="hi-logo" data-capsule-intro>{CAPSULE_SVG}</div><button type="button" class="hi-skip">スキップ</button></div>
 <div class="container hero-inner">
 <p class="hero-eyebrow">CELLACT / REGENERATIVE MEDICINE</p>
